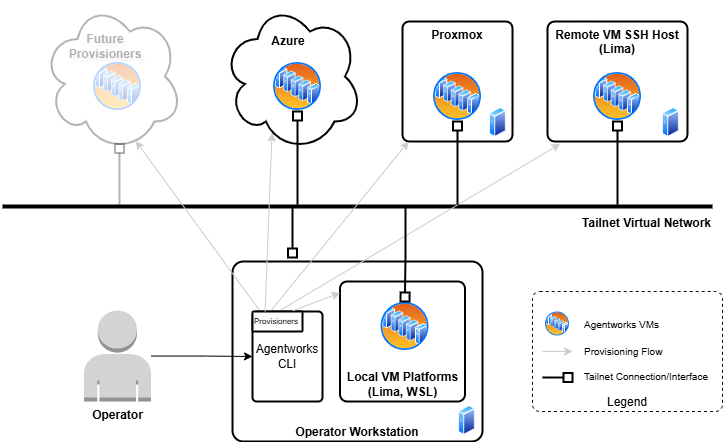
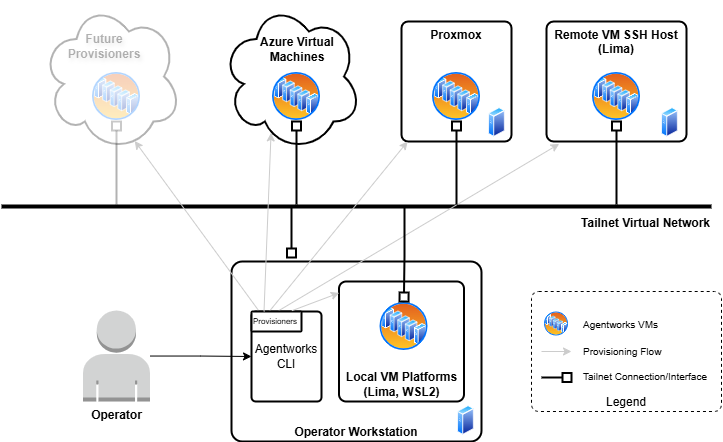
docs: standardize on WSL2 throughout topology diagram and README

diff --git a/README.md b/README.md
@@ -16,7 +16,7 @@ manage VMs on Lima, WSL2, Azure, and Proxmox. Regardless of the platform, every 
 base operating system (Debian Bookworm), is joined to the same Tailscale tailnet, and is accessible
 over SSH at its Tailscale IP address.
 
-![Agentworks topology: the operator's workstation runs the agw CLI, which provisions VMs across local platforms (Lima or WSL), a remote Lima host, Azure, and Proxmox. Every VM and the workstation itself join a shared Tailnet overlay, which is how the CLI reaches them all.](docs/images/agw-topology.png)
+![Agentworks topology: the operator's workstation runs the agw CLI, which provisions VMs across local platforms (Lima or WSL2), a remote Lima host, Azure, and Proxmox. Every VM and the workstation itself join a shared Tailnet overlay, which is how the CLI reaches them all.](docs/images/agw-topology.png)
 
 Inside each VM, Agentworks provides several layered primitives for organizing agentic workloads:
 